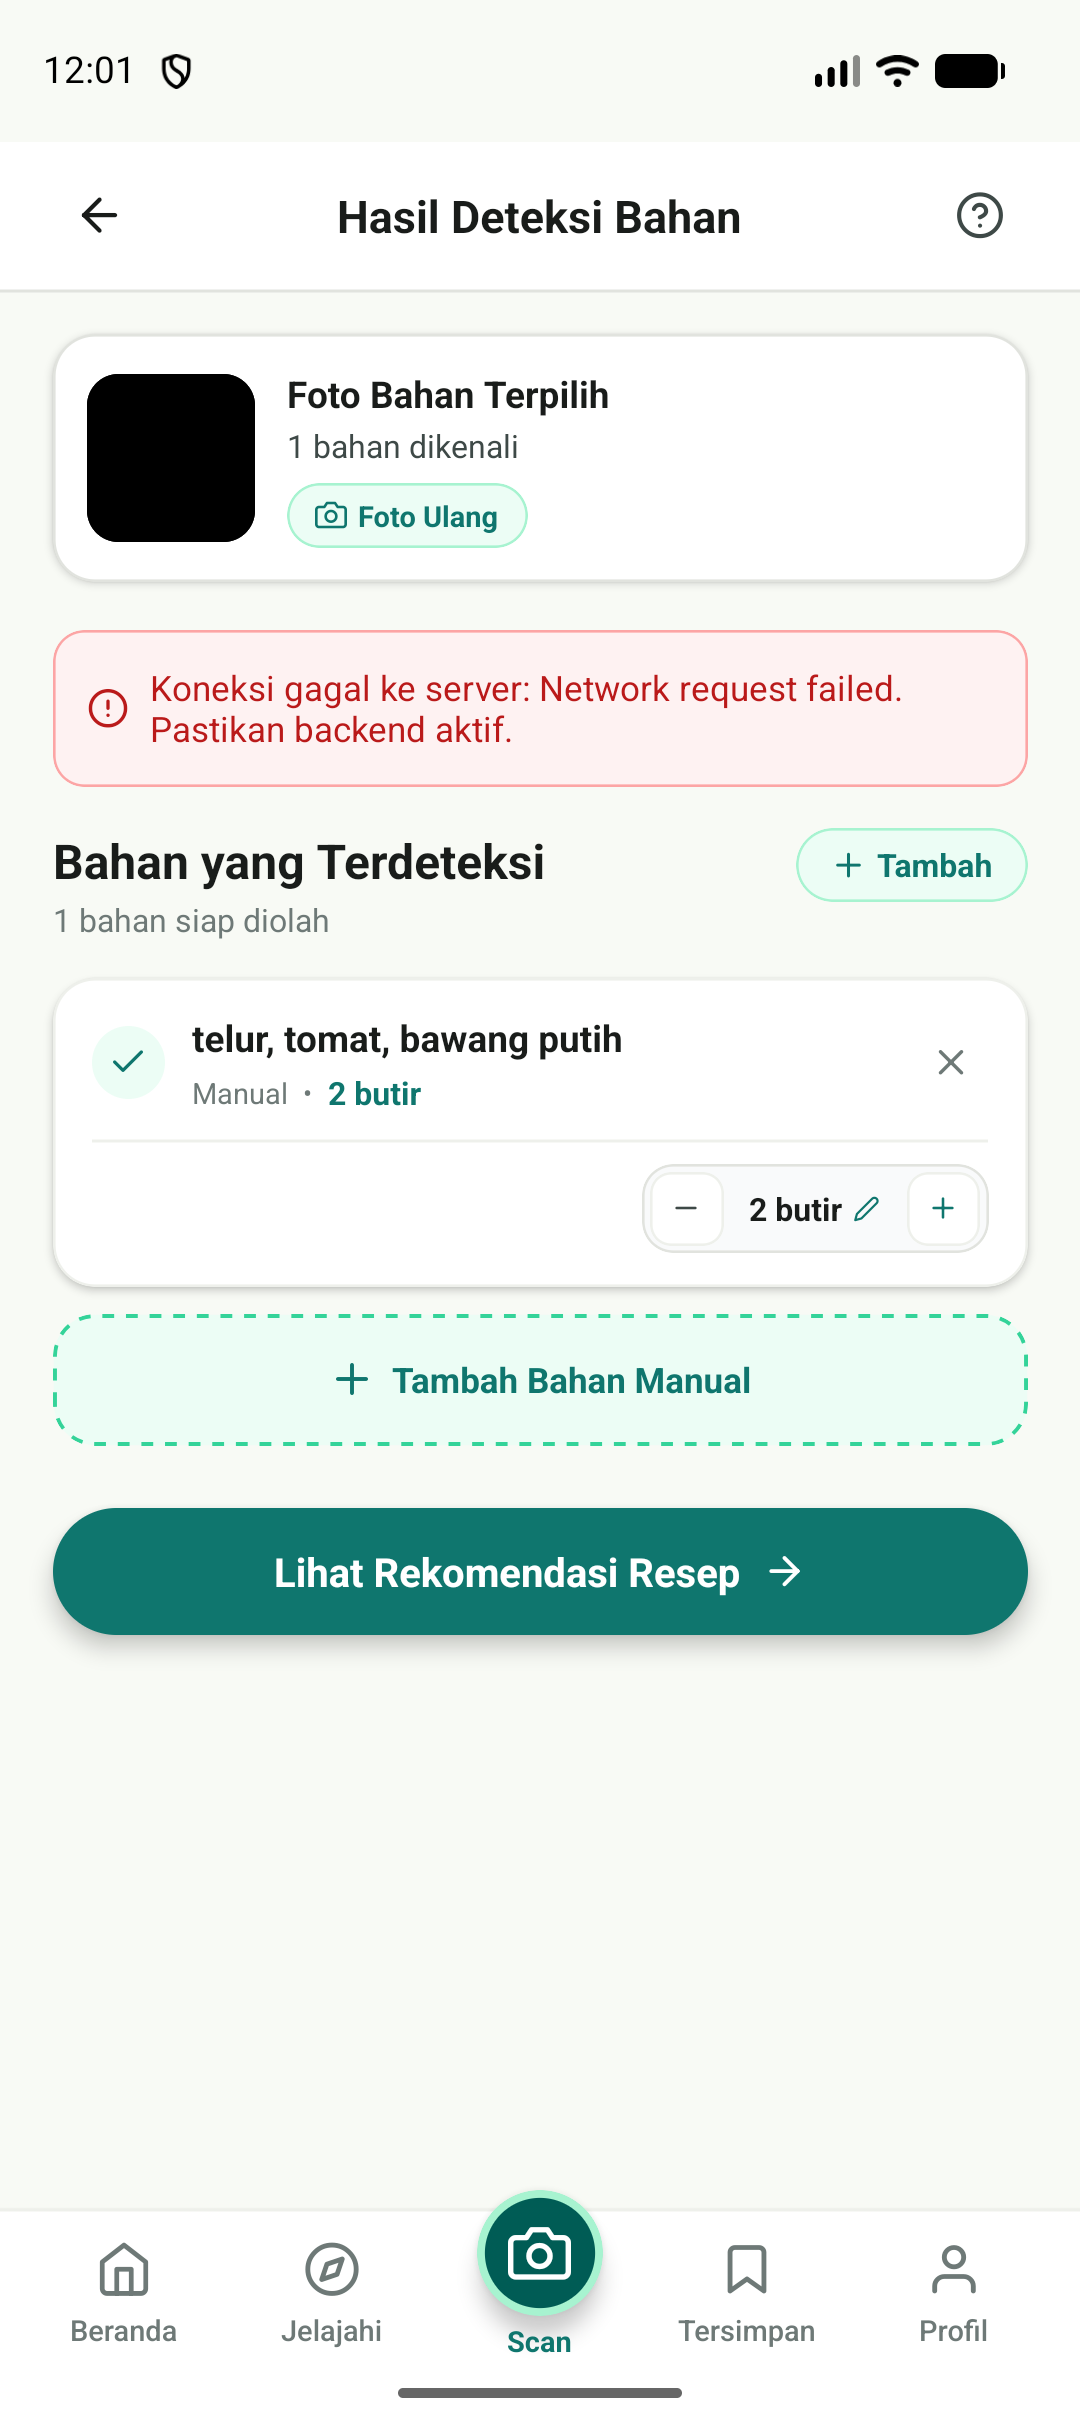
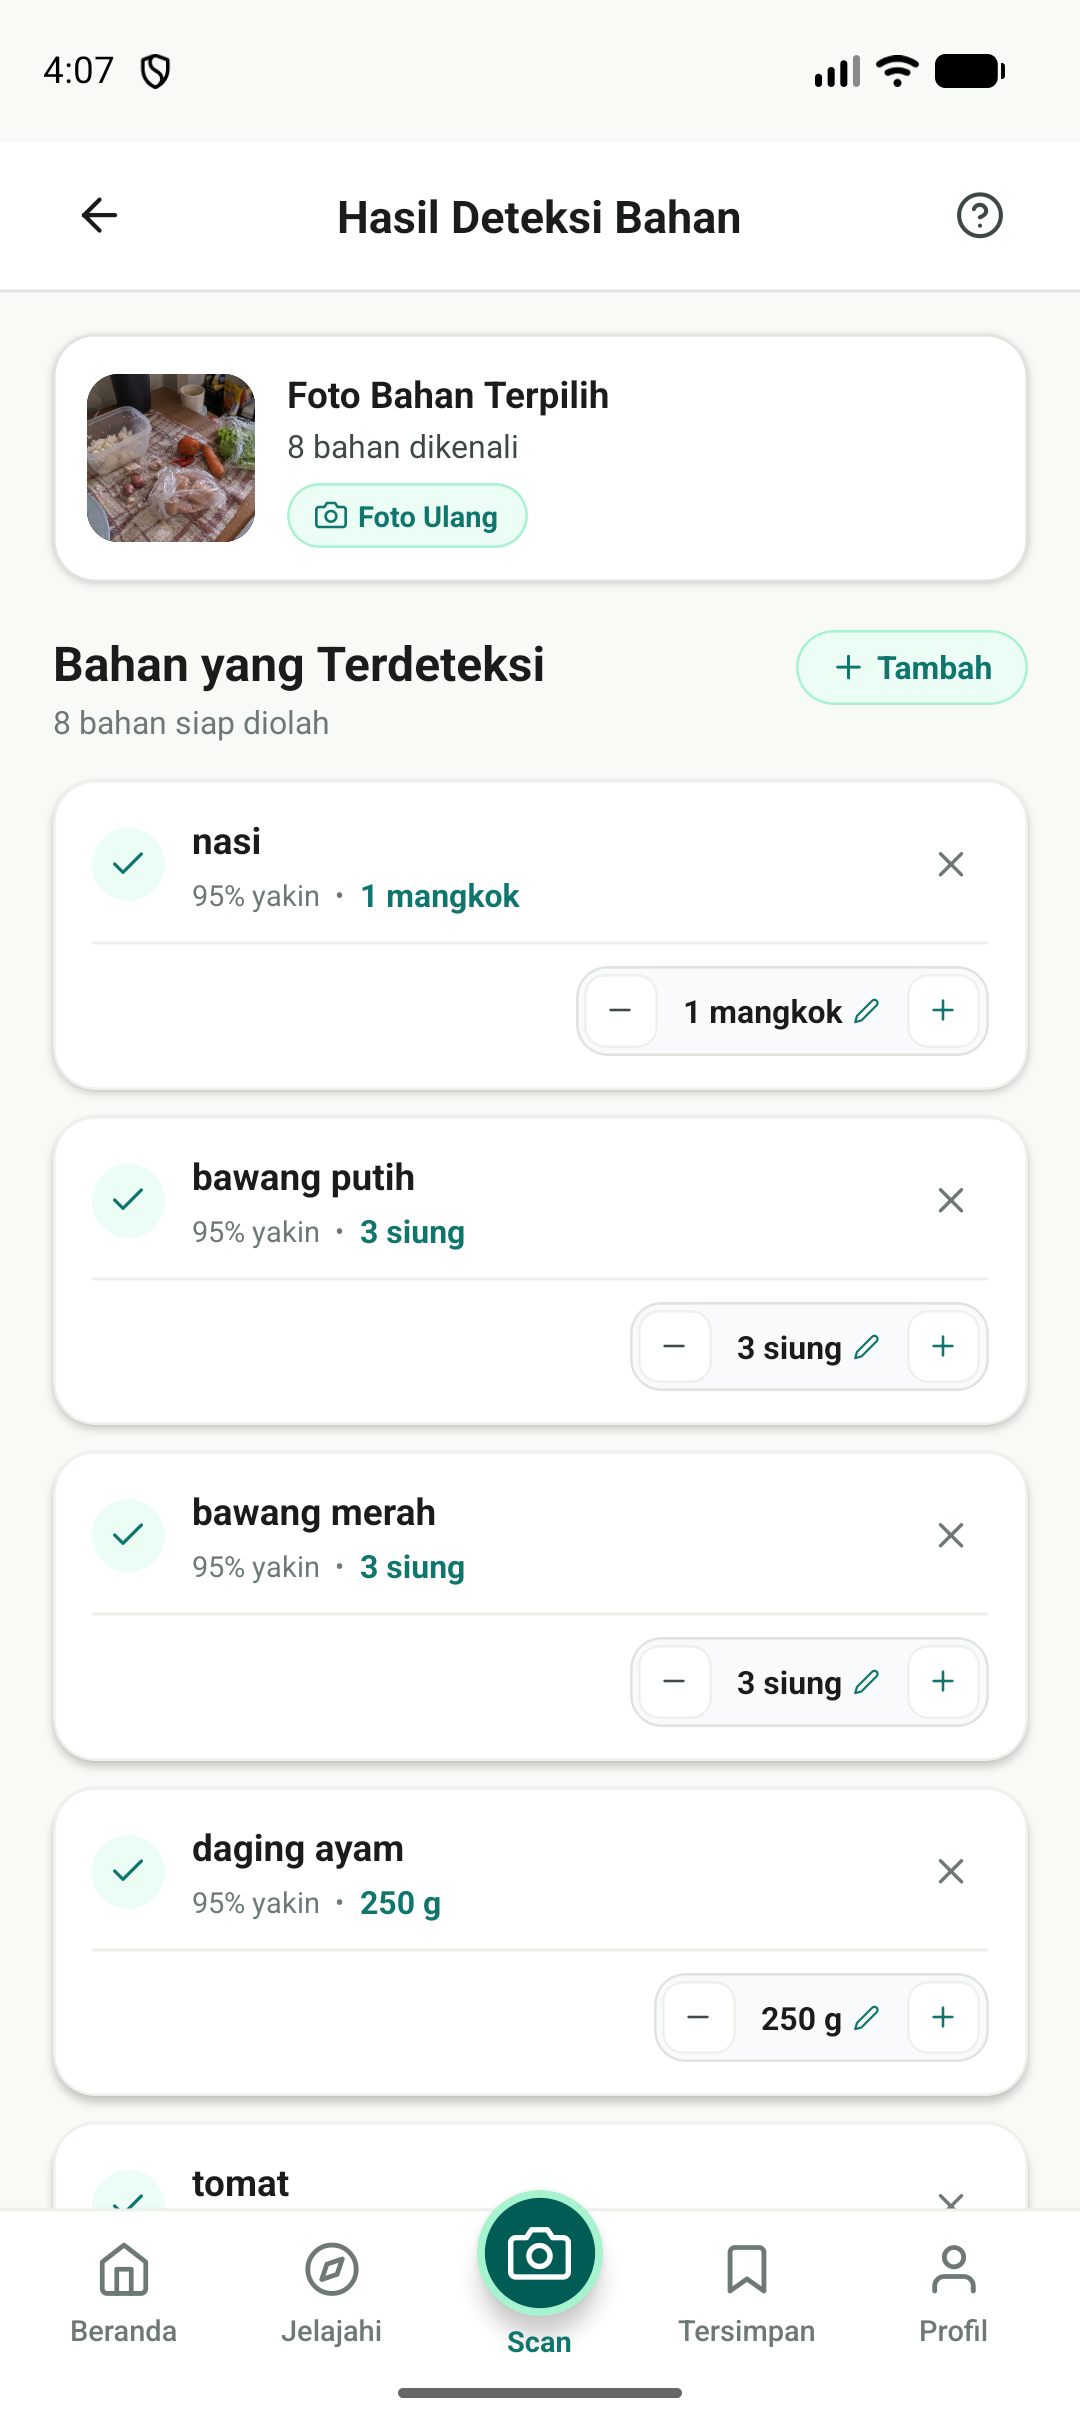
docs: update ingredient detection screenshot with real photo and clean up demo section

diff --git a/screenshots/README.md b/screenshots/README.md
@@ -3,11 +3,10 @@
 Active production screenshots captured from live Android client:
 
 - `01_beranda_home.png` — **Beranda (Home)**: User greeting, food rescue impact summary, quick scan action, and 5-tab bottom navigation.
-- `02_deteksi_bahan_editor.png` — **Hasil Deteksi Bahan**: Multimodal vision detection results, confidence badge, interactive quantity stepper (`[-] 2 butir [+]`), "+ Tambah Bahan Manual" card, and "Lihat Rekomendasi Resep" button.
+- `02_deteksi_bahan_editor.png` — **Hasil Deteksi Bahan**: Multimodal vision detection results with real kitchen ingredients thumbnail (8 bahan terdeteksi: nasi, bawang putih, bawang merah, daging ayam, dll.), confidence badges, interactive quantity steppers, '+ Tambah' button, and recipe recommendation trigger.
 - `03_rekomendasi_masakan.png` — **Rekomendasi Masakan**: Langflow V2 recipe matches with pantry match score, cooking style filters (Semua, Tumis, Goreng, Kukus), and recipe metadata.
 - `04_detail_resep_panduan.png` — **Detail Resep**: Cooking preparation times, difficulty, budget estimate, pantry checklist, extra seasoning checklist, and 9-step guided cooking instructions.
 - `05_profil_dapur.png` — **Profil Saya**: User profile card, food waste reduction metrics (kg saved, money saved, recipes cooked), and kitchen management links.
 
-### Sample Input Pengujian (Bukan UI)
-- `demo_bahan_makanan_anak_kos.png` — **Sample Input Deteksi Bahan**: Foto bahan makanan nyata di meja dapur anak kos (sisa nasi kotak, potongan ayam mentah, tomat, wortel, selada, bawang merah, bawang putih, cabai rawit) untuk simulasi pengujian scan bahan AI.
-
+### Asset Sumber Pengujian
+- `demo_bahan_makanan_anak_kos.png` — Foto bahan makanan mentah di meja dapur (nasi, ayam, tomat, wortel, selada, bawang merah, bawang putih, cabai) yang digunakan pada pengujian live scan bahan AI.

diff --git a/README.md b/README.md
@@ -181,16 +181,6 @@ Nomz is deployed live on Railway:
 | :---: | :---: |
 | <img src="screenshots/04_detail_resep_panduan.png" width="240" alt="Detail Resep" /><br><sub>**Detail Resep**: Estimasi waktu/biaya, checklist bumbu, & 9 langkah</sub> | <img src="screenshots/05_profil_dapur.png" width="240" alt="Profil Saya" /><br><sub>**Profil**: Metrik kg diselamatkan, penghematan, & inventaris pantry</sub> |
 
-### Sample Input: Pengujian Deteksi Bahan (Simulasi Bahan Meja Dapur)
-
-> [!NOTE]
-> Foto di bawah ini merupakan **gambar input simulasi** bahan makanan nyata di meja dapur (menampilkan sisa nasi kotak, potongan ayam mentah, tomat, wortel, selada, bawang merah, bawang putih, dan cabai rawit) yang disiapkan untuk pengujian pemindaian fitur *Multimodal Ingredient Detection*, **bukan merupakan tangkapan layar antarmuka aplikasi**. Hasil deteksi aktual pada aplikasi tetap divalidasi melalui layar konfirmasi interaktif pengguna.
-
-<p align="center">
-  <img src="screenshots/demo_bahan_makanan_anak_kos.png" width="520" alt="Sample Input Bahan Makanan Meja Dapur" /><br>
-  <sub><b>Sample Input Demo:</b> Bahan makanan nyata di meja dapur anak kos untuk simulasi pengujian scan bahan AI</sub>
-</p>
-
 ---
 
 ## Local Development Setup
